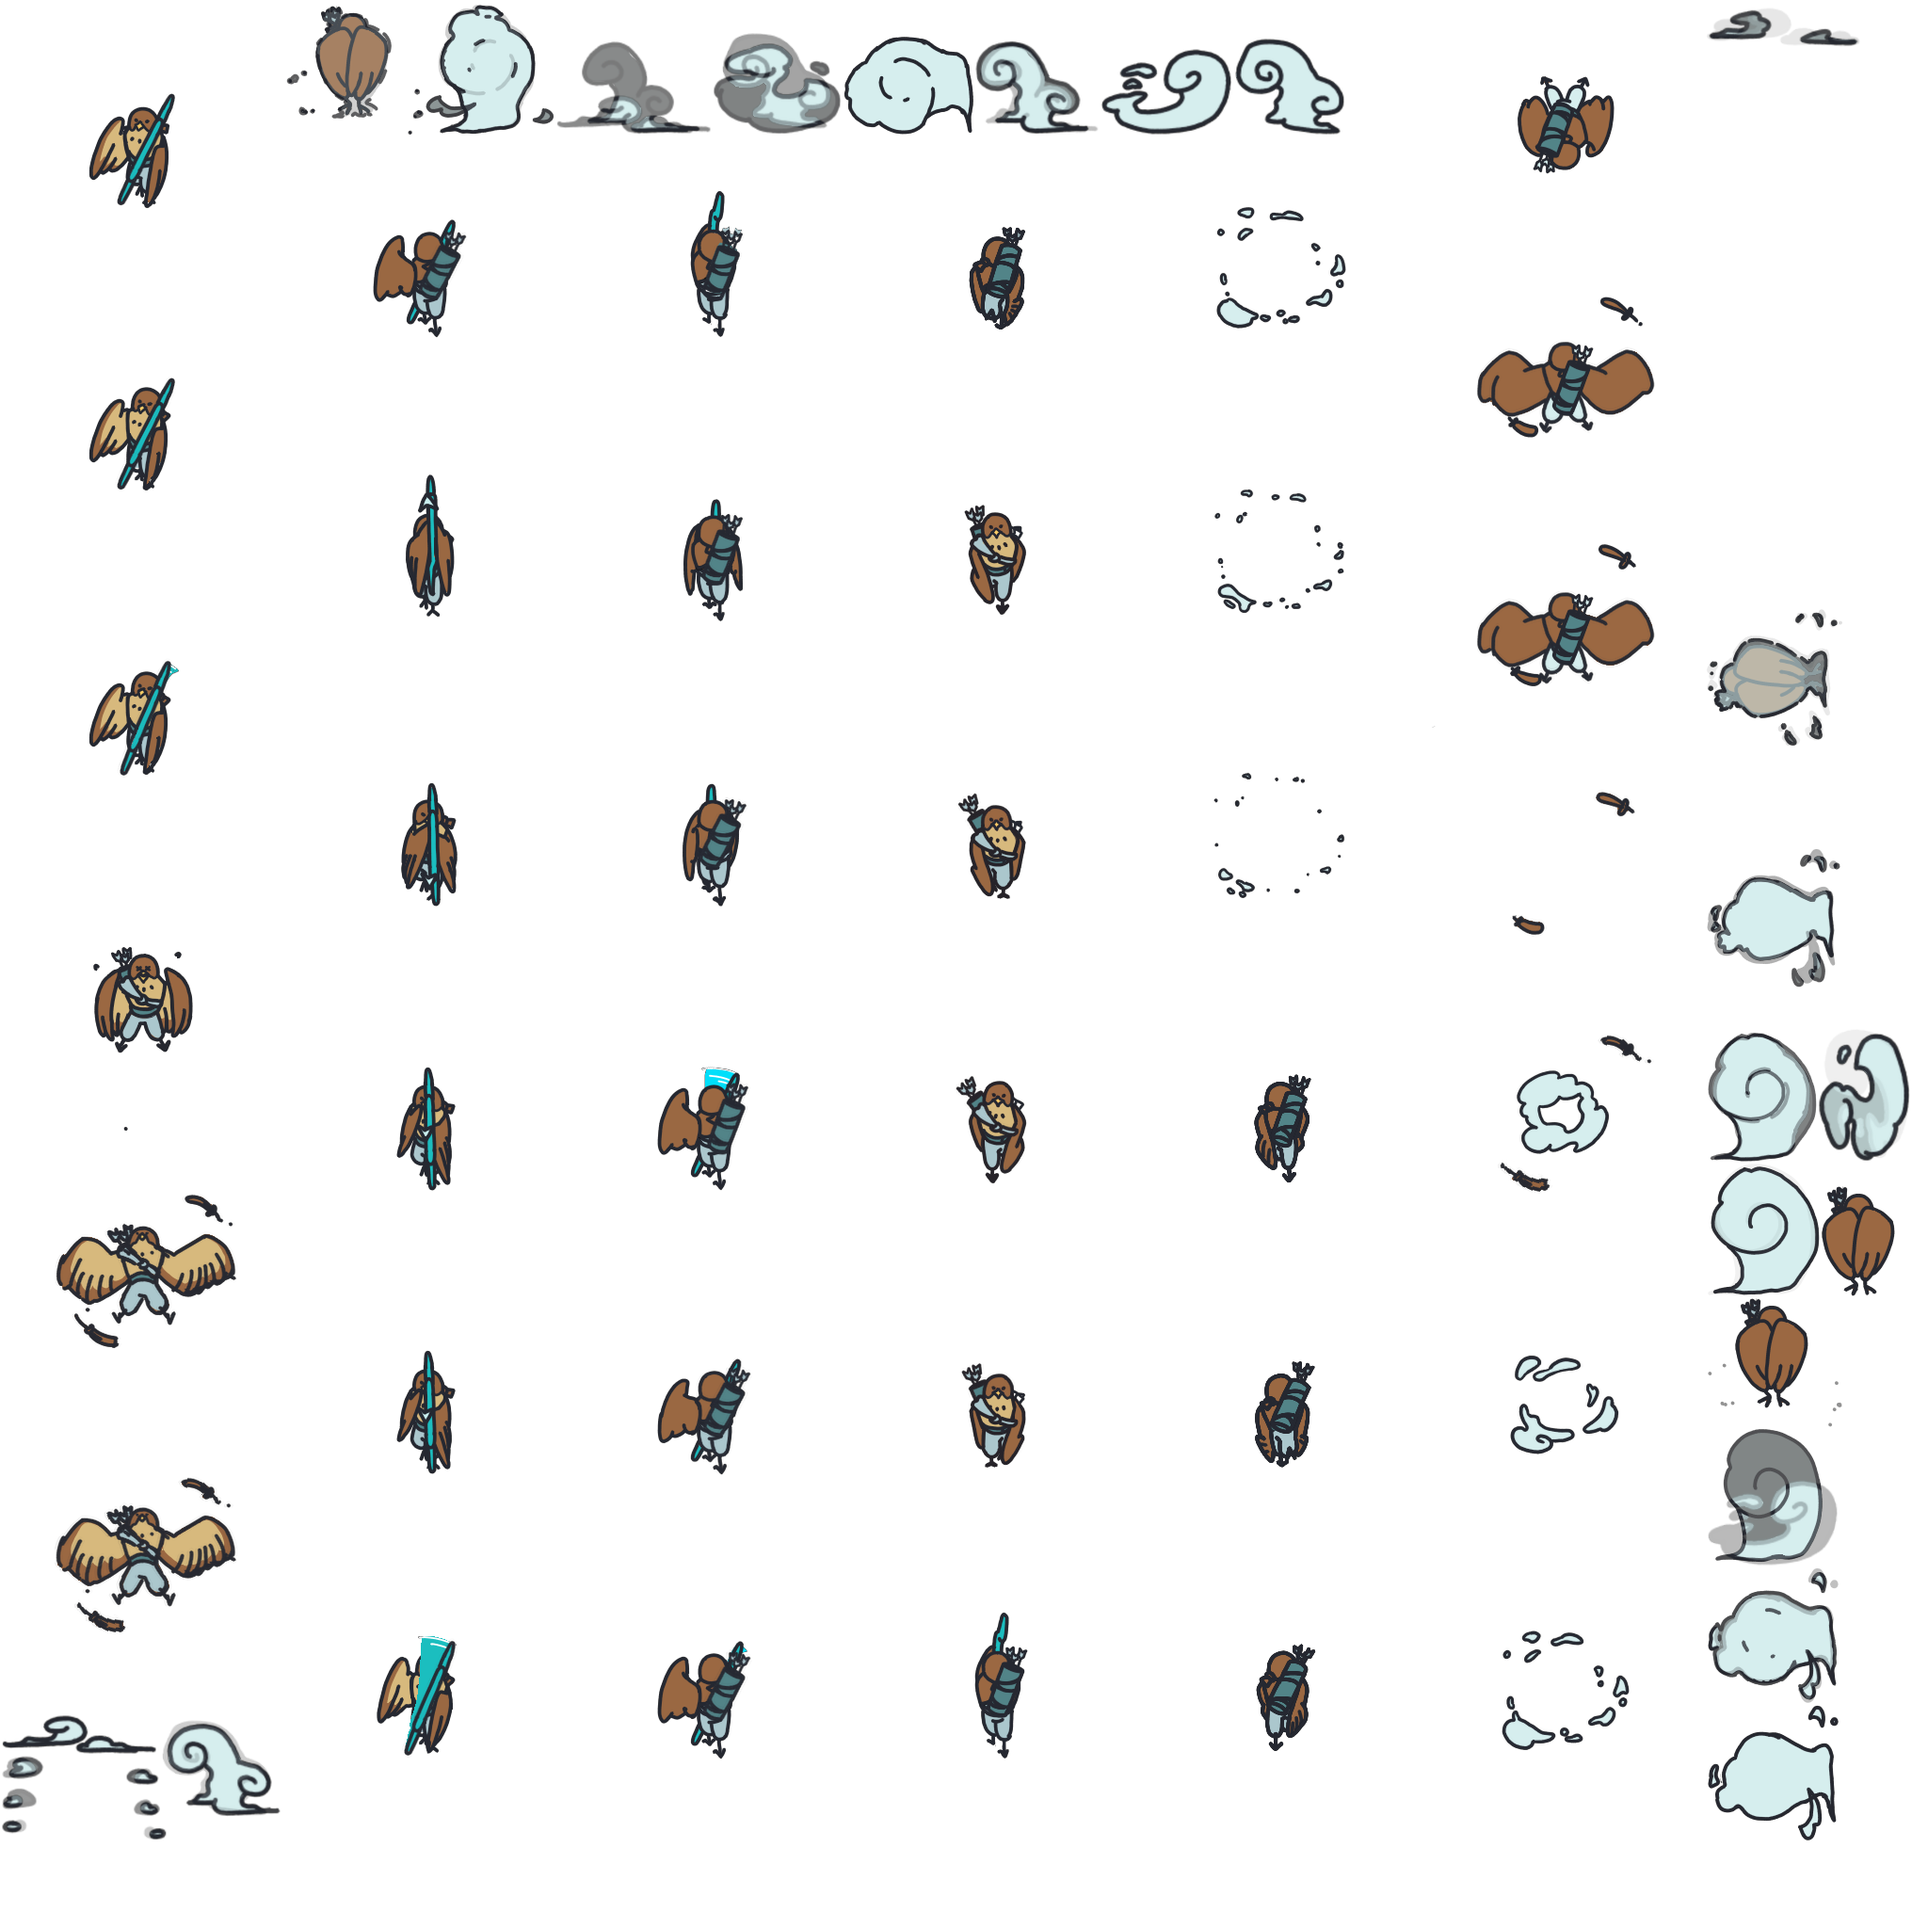
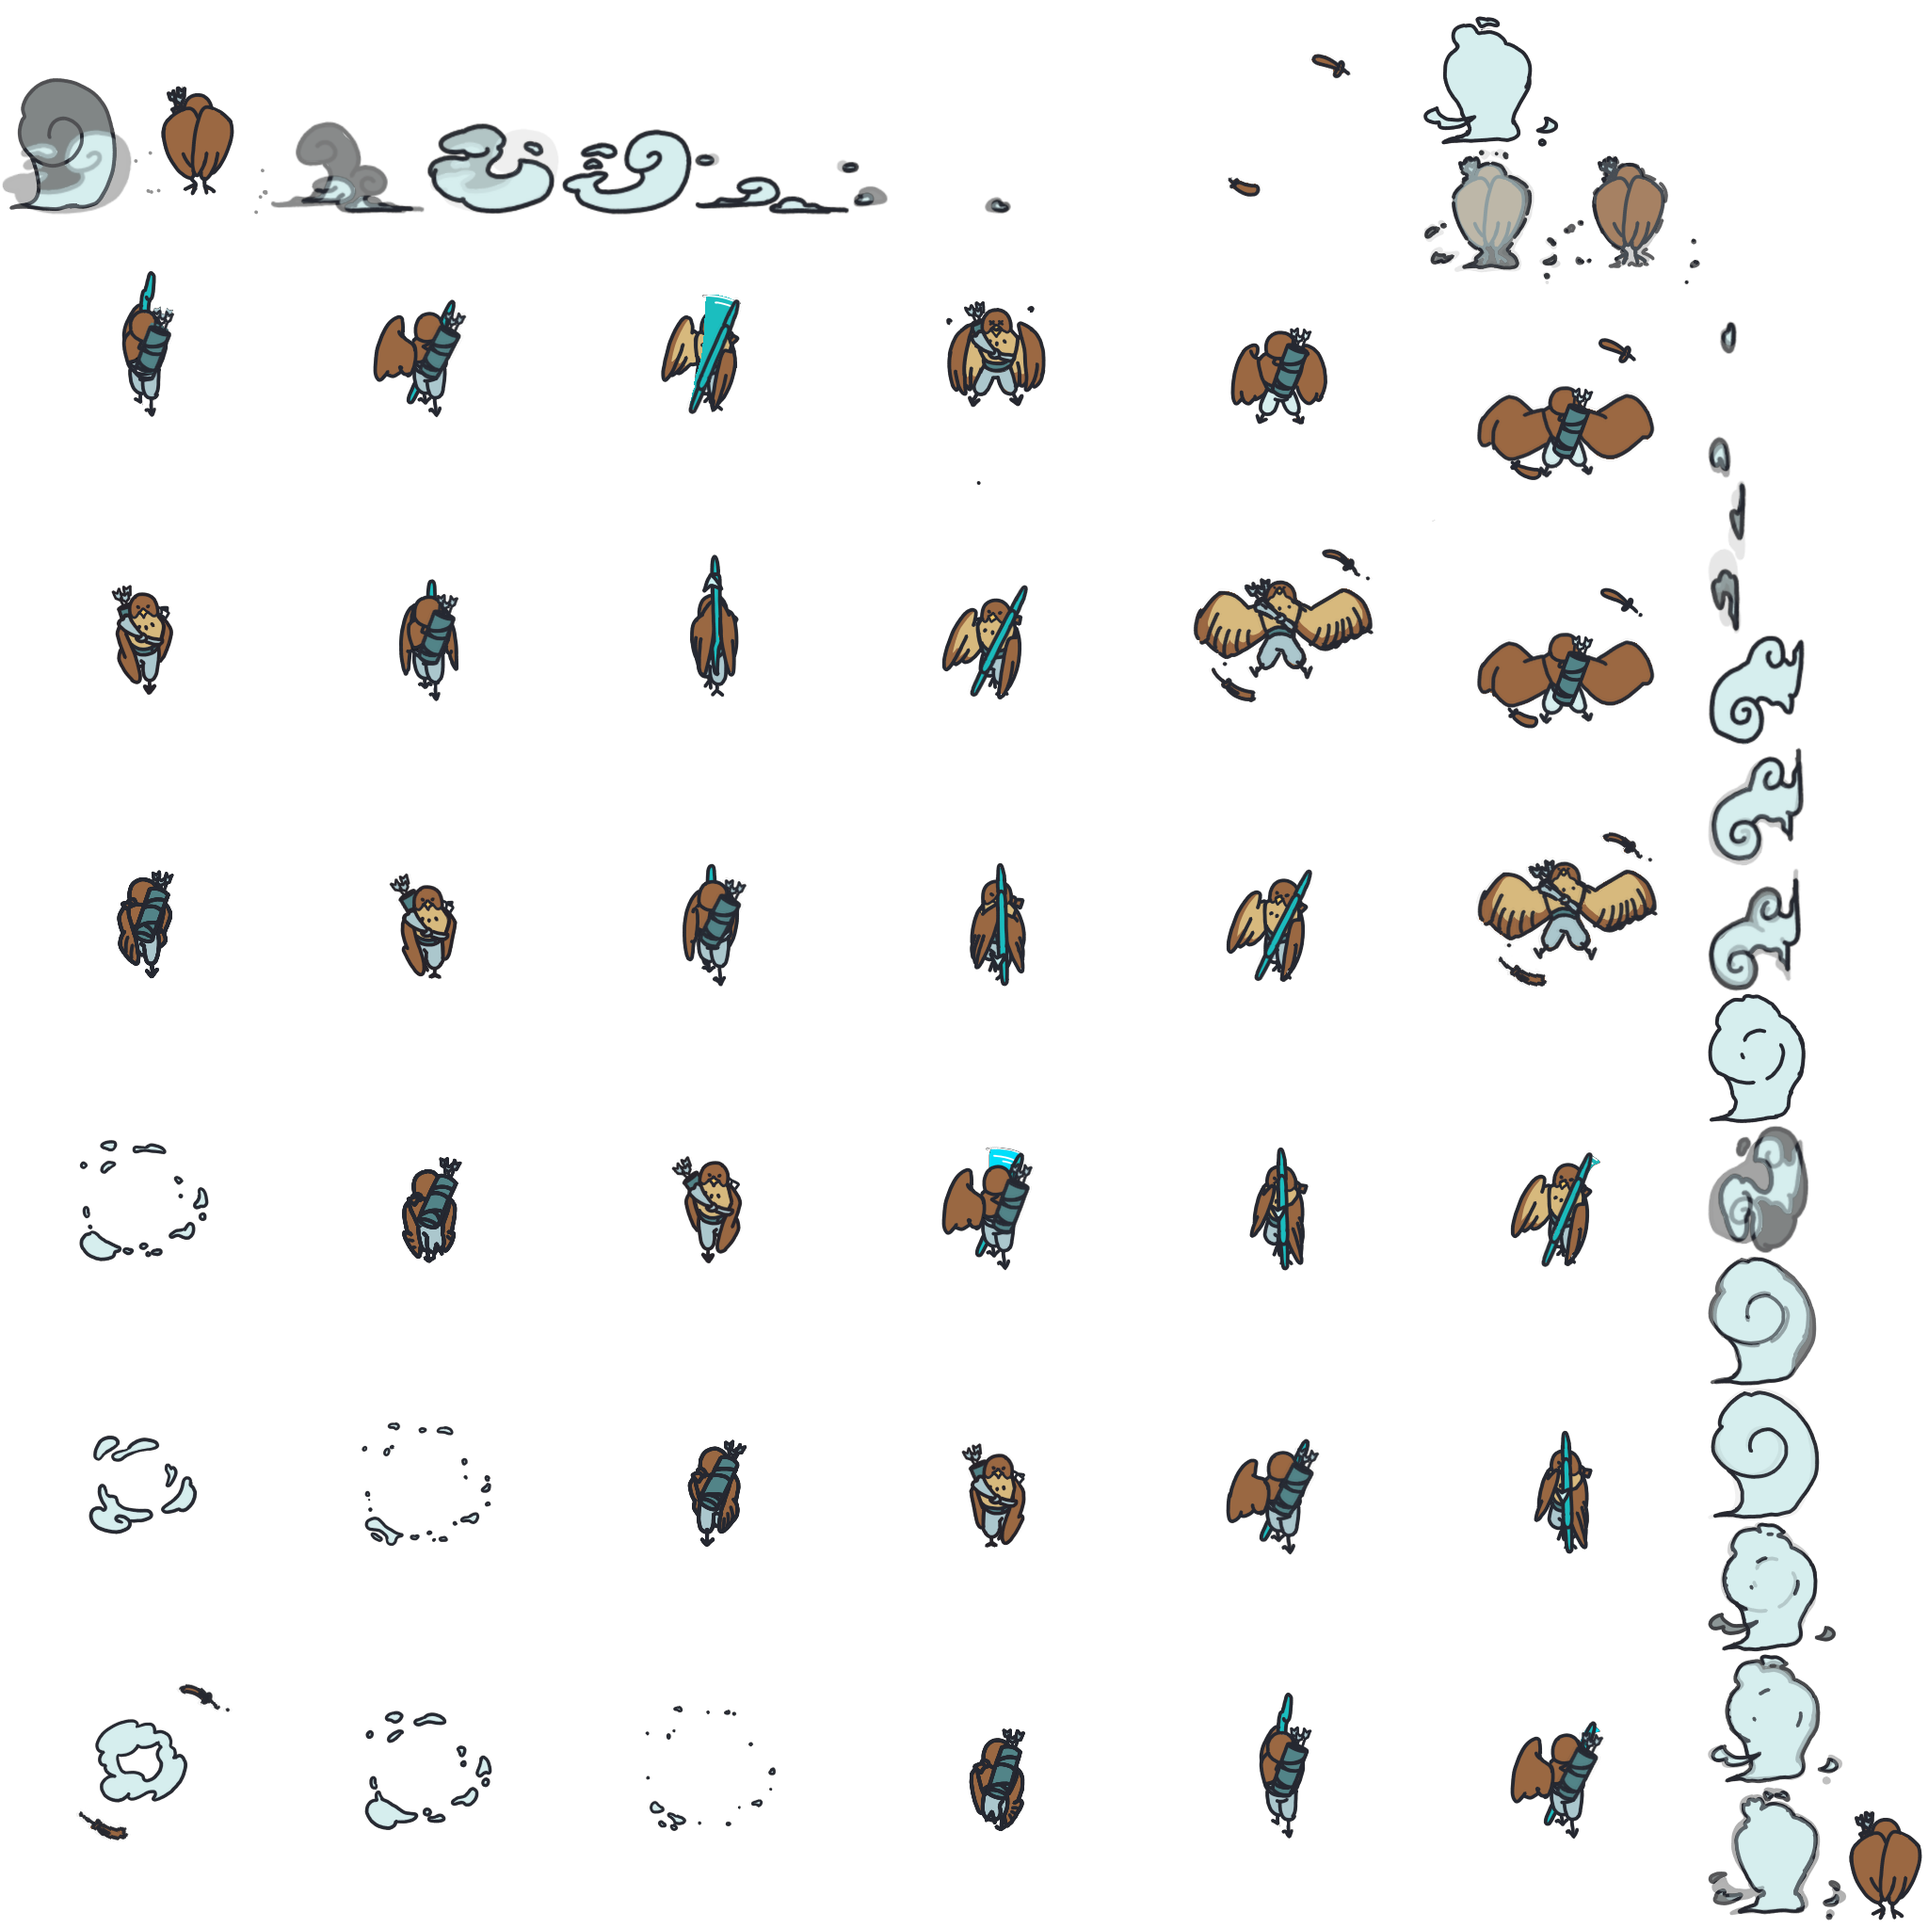
,,,,,

diff --git a/Assets/Scripts/System/CursorControl.cs b/Assets/Scripts/System/CursorControl.cs
@@ -18,7 +18,7 @@ public class CursorControl : MonoBehaviour
     [SerializeField] float player_threshold;
 
     Vector3 worldPos, targetPos;
-    static bool isStart = false;
+    public static bool isStart = false;
 
     private void Start()
     {
@@ -43,7 +43,10 @@ public class CursorControl : MonoBehaviour
 
             transform.position = targetPos;
         }
-        else transform.position = player.position;
+        else
+        {
+            transform.position = player.position;
+        }
     }
 
     public void SetStartCursor()
